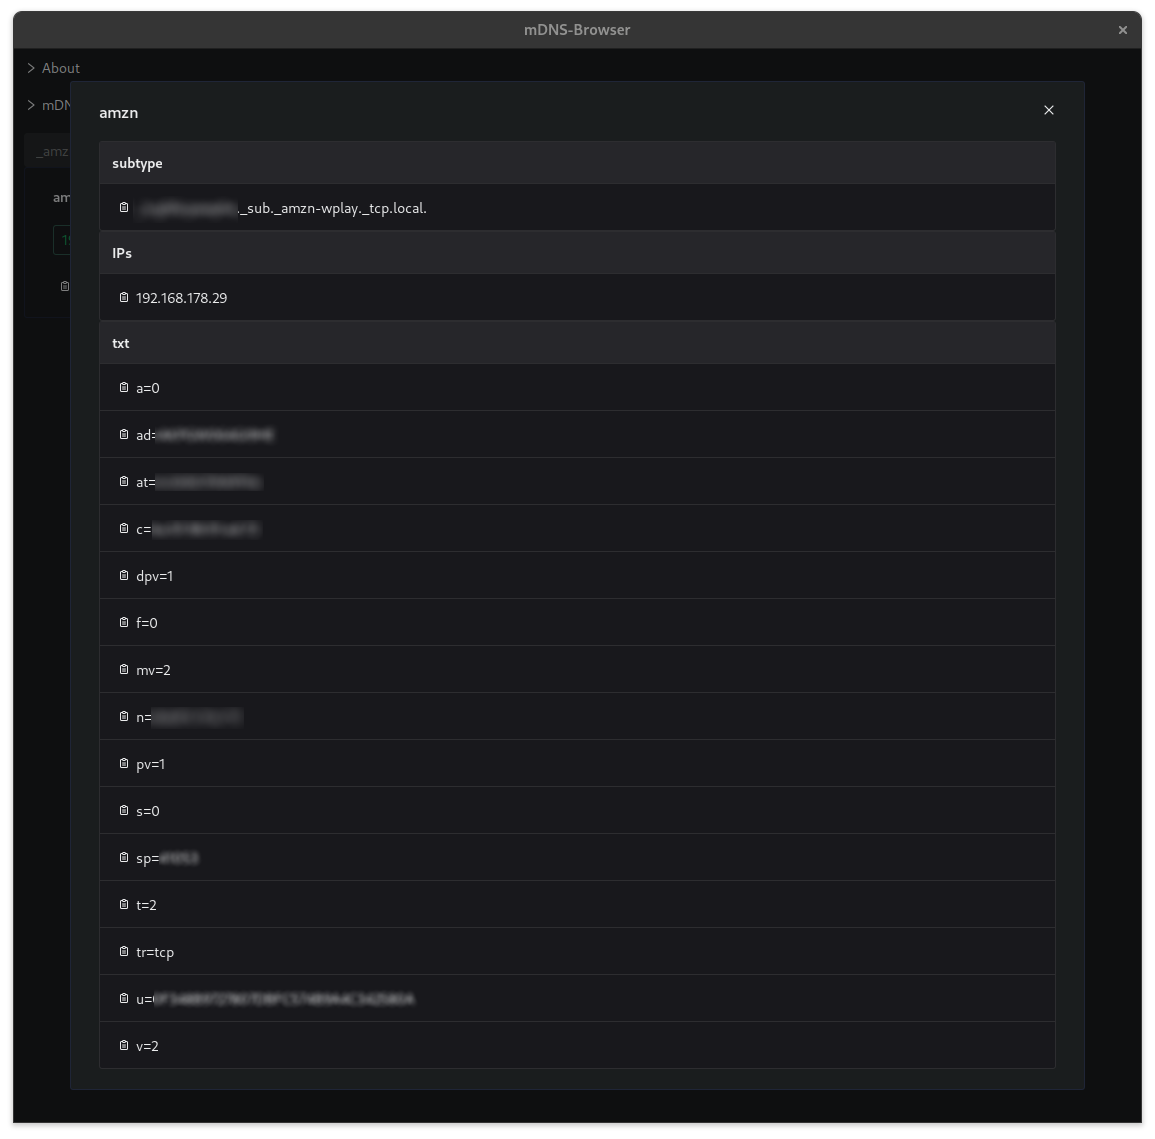
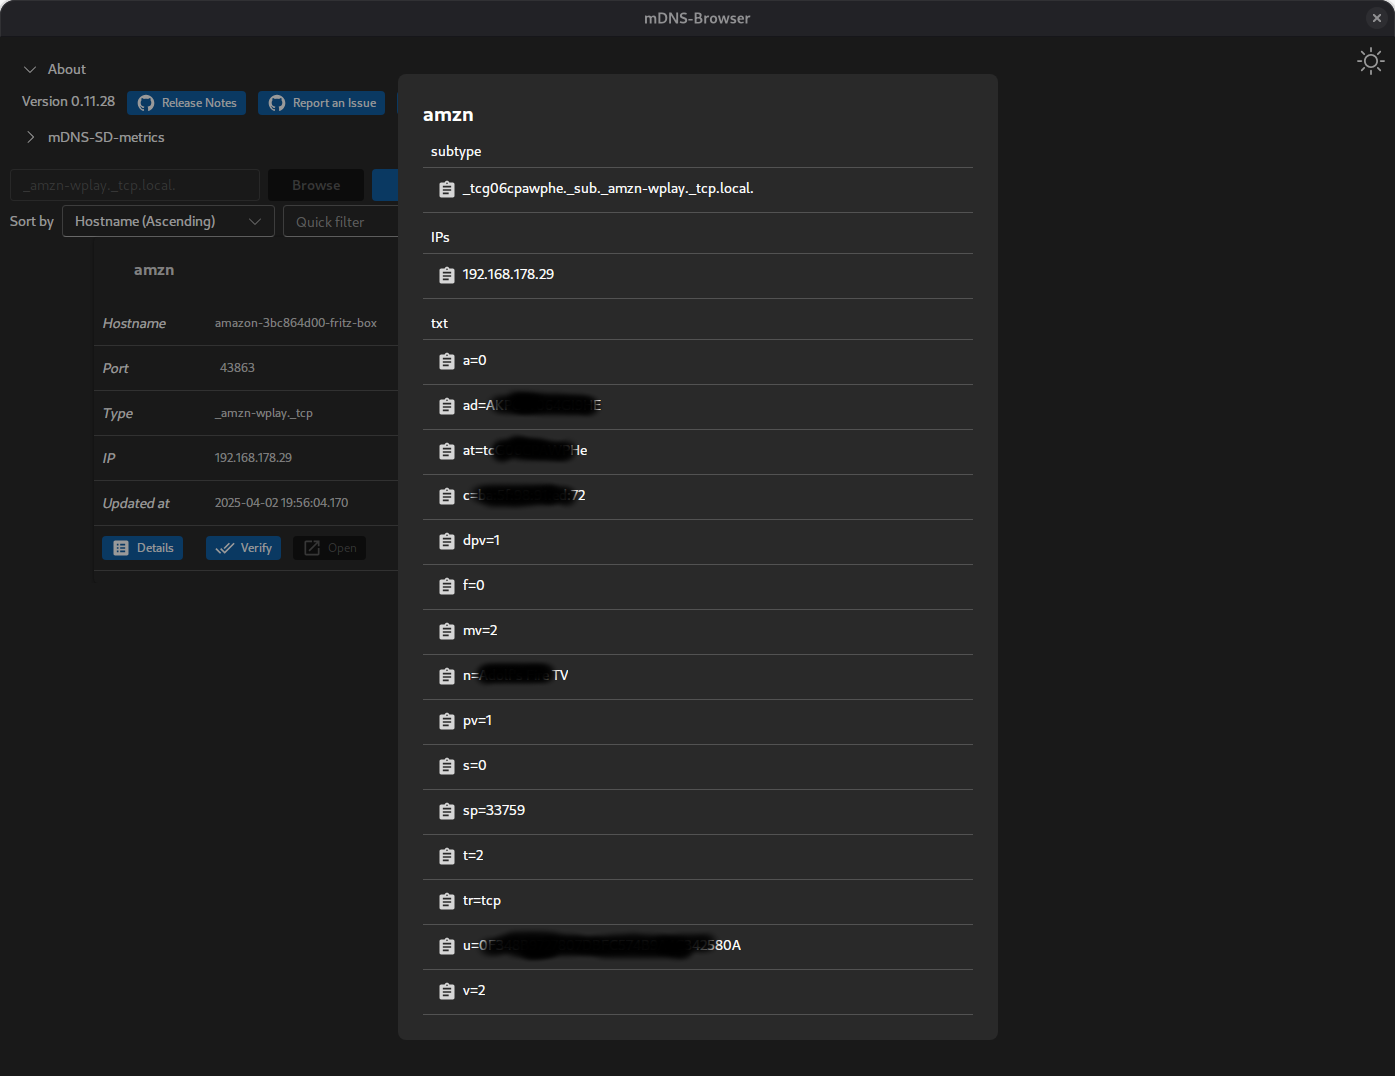
docs: update screenshots

diff --git a/README.md b/README.md
@@ -7,7 +7,7 @@
 
 This application allows you to browse services using mDNS.
 
-Screenshots from [v0.9.5](https://github.com/hrzlgnm/mdns-browser/releases/tag/mdns-browser-v0.9.5)
+Screenshots from [v0.11.28](https://github.com/hrzlgnm/mdns-browser/releases/tag/mdns-browser-v0.11.28)
 
 ### Startup
 
